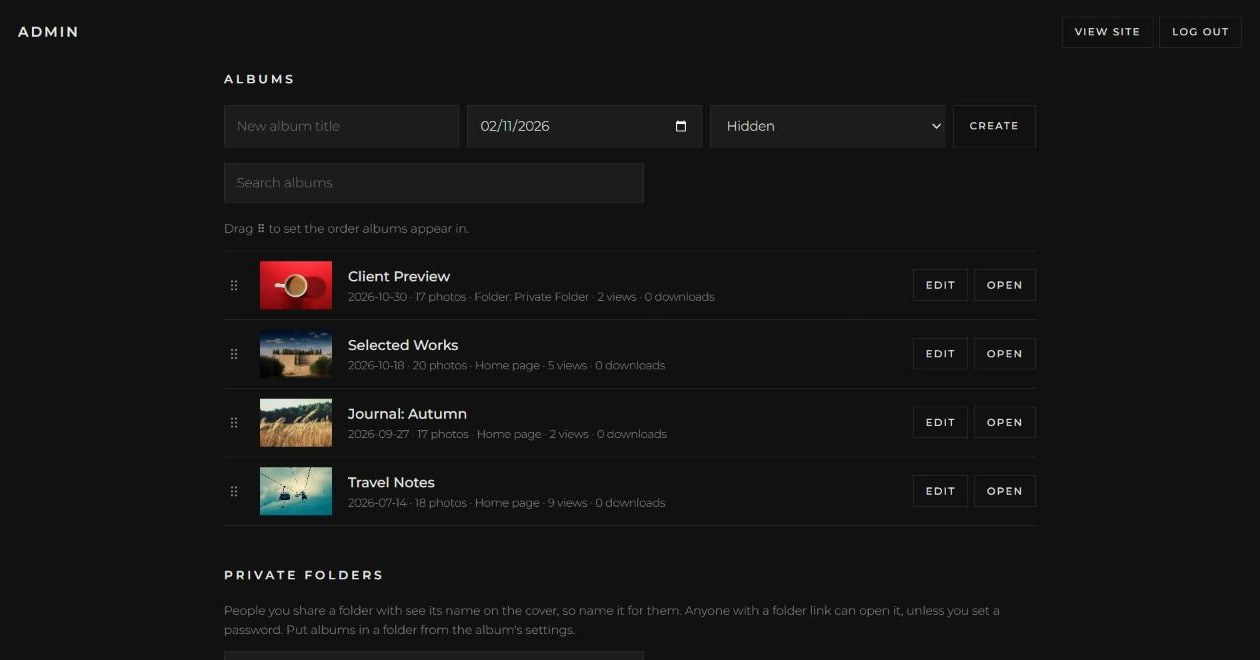
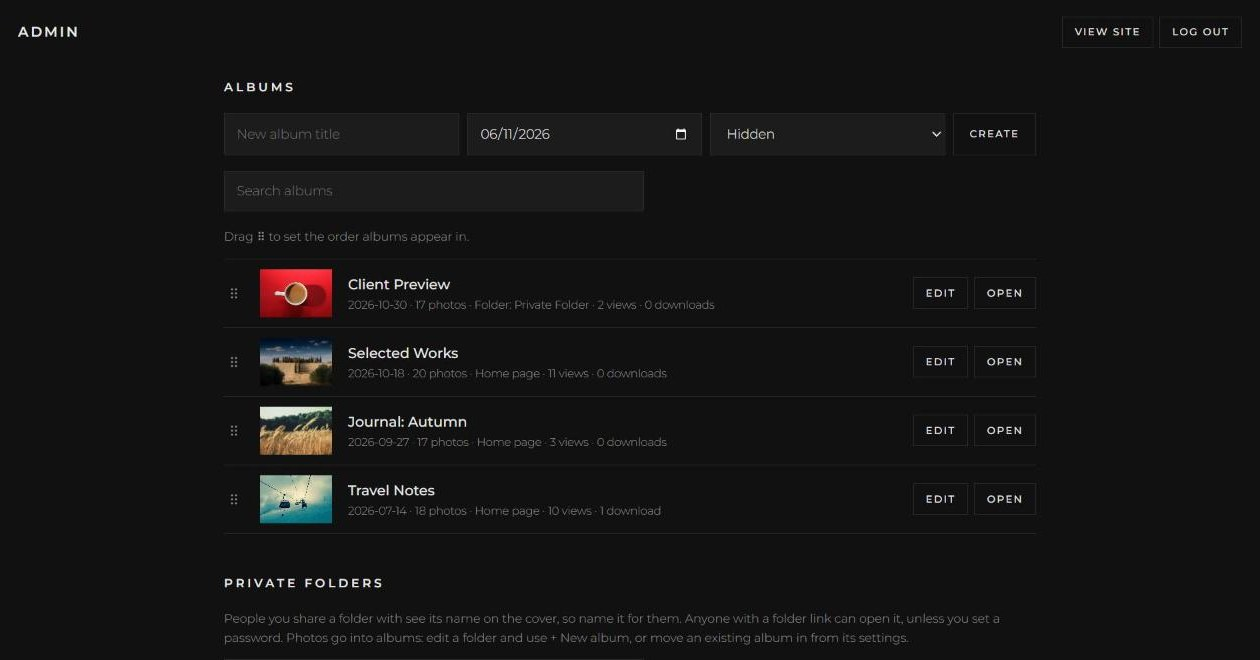
README: new admin folder page and albums screenshots

diff --git a/README.md b/README.md
@@ -31,7 +31,7 @@ easy downloads, and private album links you can share with anyone.
 | Settings and home page | Albums, drag to reorder |
 |---|---|
 | ![Admin settings](docs/screenshots/admin-overview.jpg) | ![Admin albums](docs/screenshots/admin-albums.jpg) |
-| **Private folder: link, QR code, password, expiry, downloads, favourites** | **Album: upload, select to move or delete, reorder** |
+| **Private folder page: cover, link, QR code, password, expiry, downloads, favourites, its albums** | **Album: upload, select to move or delete, reorder** |
 | ![Admin private folder](docs/screenshots/admin-folder.jpg) | ![Admin album editor](docs/screenshots/admin-album.jpg) |
 
 **Trash:** deleted photos and albums can be restored for 7 days.
